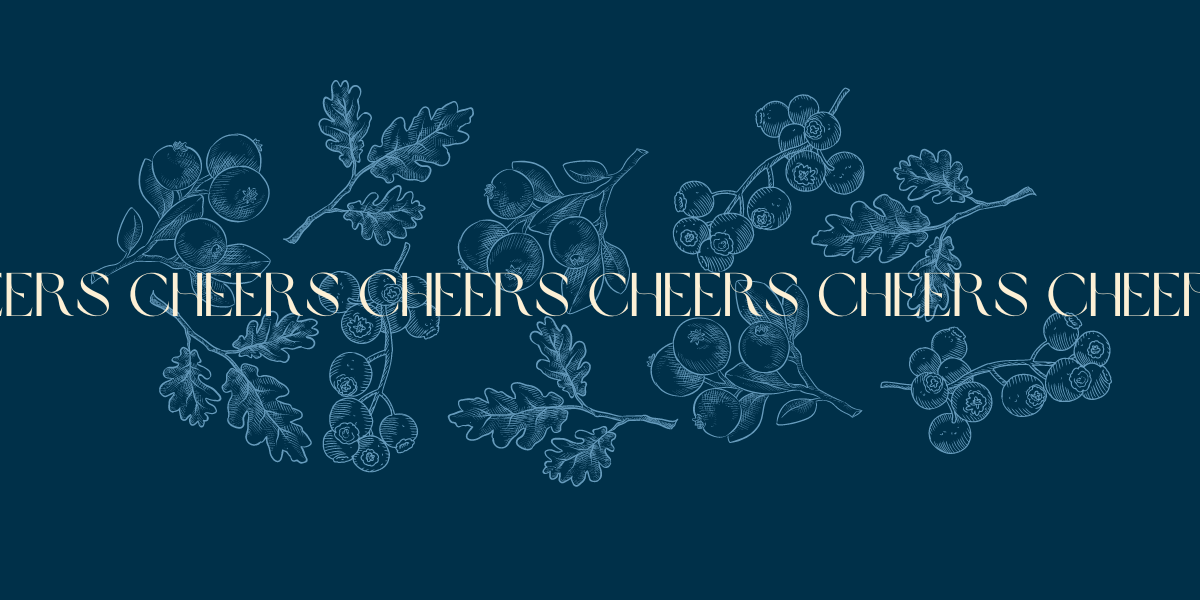
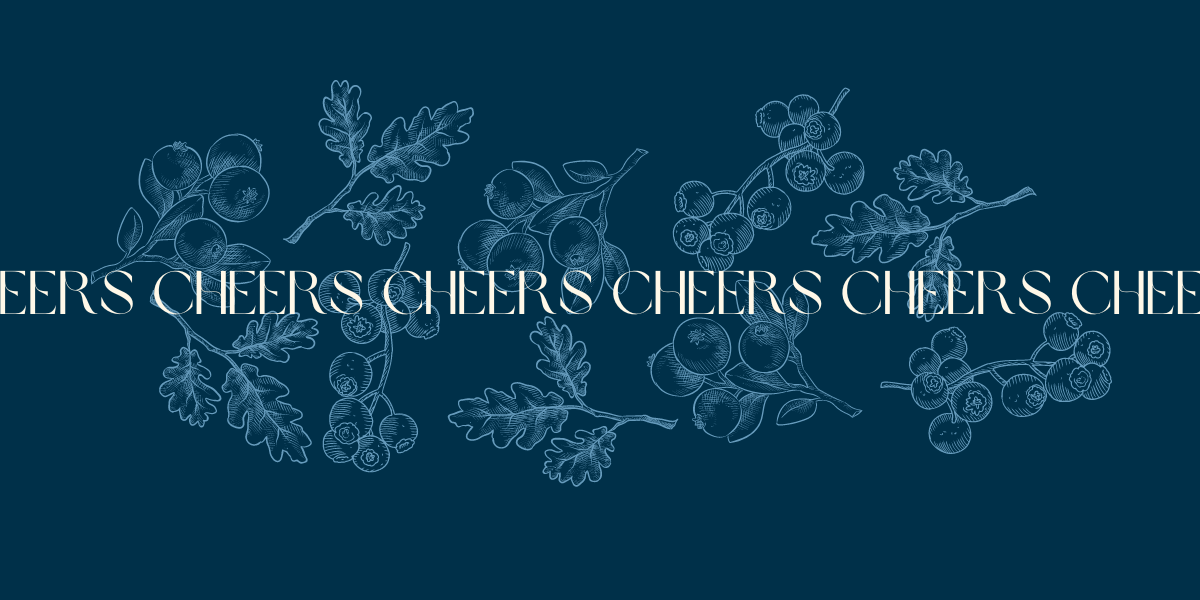
added more styling

Changed region(s): [[0.0, 0.45, 1.0, 0.54]]

diff --git a/client/src/components/Header.js b/client/src/components/Header.js
@@ -1,19 +1,12 @@
 import { Link } from "react-router-dom";
 import styled from "styled-components";
-import { useNavigate } from "react-router-dom";
-import logo from "../assets/happy_hour_ logo.png";
+import logo from "../assets/happy_hour_logo.png";
 
 const Header = () => {
 
-    // When logo is clicked, user navigates back to Homepage
-    // const toHome = useNavigate();
-    // const goToHome = () => {
-    //     toHome("/");
-    // };
-
     return (
         <Wrapper>
-            <Logo src={logo} />
+            <LogoLink to="/"><Logo src={logo} /></LogoLink>
             <NavigationBtns>
             <NavigationBar>
                 <NavUl>
@@ -37,12 +30,10 @@ const Wrapper = styled.div`
 `;
 
 const Logo = styled.img`
-    height: 100px;
+    height: 150px;
 `;
 
 const NavigationBar = styled.nav`
-    width: 50vh;
-    height: 10vh;
     display: flex;
     justify-content: space-evenly;
     margin-right: 50px;
@@ -58,14 +49,15 @@ const NavUl = styled.ul`
     display: flex;
     align-items: center;
     justify-content: space-between;
-    height: 100%;
-    width: 100%;
 `;
 
 const NavLi = styled.li`
 `;
 
 const NavLink = styled(Link)`
+`;
+
+const LogoLink = styled(Link)`
 `;
 
 const LogOutBtn = styled.button`

diff --git a/client/src/components/Footer.js b/client/src/components/Footer.js
@@ -1,18 +1,9 @@
 import styled from "styled-components";
-import { useNavigate } from "react-router-dom";
-import logo from "../assets/happy_hour_ logo.png";
+import logo from "../assets/happy_hour_logo.png";
 
 const Footer = () => {
-
-    // When logo is clicked, user navigates back to Homepage
-    const toHome = useNavigate();
-    const goToHome = () => {
-        toHome("/");
-    };
-
     return (
         <Wrapper>
-            <Quote>Ladies and gentlemen - it is <Italic>quitting time...</Italic></Quote>
             <Logo src={logo} />
         </Wrapper>
     );
@@ -20,21 +11,15 @@ const Footer = () => {
 
 const Wrapper = styled.div`
     display: flex;
-    justify-content: space-between;
     align-items: center;
+    justify-content: center;
     padding: 10px;
     margin: 10px;
-`;
-
-const Quote = styled.h2`
+    height: 150px;
 `;
 
 const Logo = styled.img`
-    height: 100px;
-`;
-
-const Italic = styled.span`
-    font-style: italic;
+    height: 50px;
 `;
 
 export default Footer;

diff --git a/client/src/components/GlobalStyles.js b/client/src/components/GlobalStyles.js
@@ -6,7 +6,7 @@ const GlobalStyle = createGlobalStyle`
         --color-bright-red: #C1121F;
         --color-cool-navy: #003049;
         --color-chill-blue: #669BBC;
-        --color-calm-beige: #FDF0D5;
+        --color-calm-beige: #FFF8E8;
         --font-body: "Montserrat", Arial, Helvetica, sans-serif;
     }
 
@@ -69,14 +69,15 @@ const GlobalStyle = createGlobalStyle`
         height: 45px;
         font-size: 20px;
         color: var(--color-calm-beige);
-        background: var(--color-bright-red);
+        background: var(--color-chill-blue);
         border: none;
         border-radius: 30px;
         font-family: var(--font-body);
 
         &:hover {
             cursor: pointer;
-            opacity: 0.5; // to replace with animation
+            background: var(--color-cool-navy);
+            border: 2px solid var(--color-chill-blue);
         }
     }
 `;

diff --git a/client/src/components/Homepage.js b/client/src/components/Homepage.js
@@ -1,10 +1,19 @@
 import styled from "styled-components";
+import banner from "../assets/cheers_poster_longer_version.png"
 
 const Homepage = () => {
-    return <Wrapper>Homepage</Wrapper>
+    return <Wrapper>
+        <Banner src={banner} />
+    </Wrapper>
 };
 
 const Wrapper = styled.div`
+    display: flex;
+`;
+
+const Banner = styled.img`
+    display: flex;
+    align-self: center;
 `;
 
 export default Homepage;

diff --git a/client/src/components/App.js b/client/src/components/App.js
@@ -34,8 +34,6 @@ const App = () => {
 };
 
 const Wrapper = styled.div`
-  height: 100vh;
-  width: 100vh;
   margin: 20px;
 `;
 
